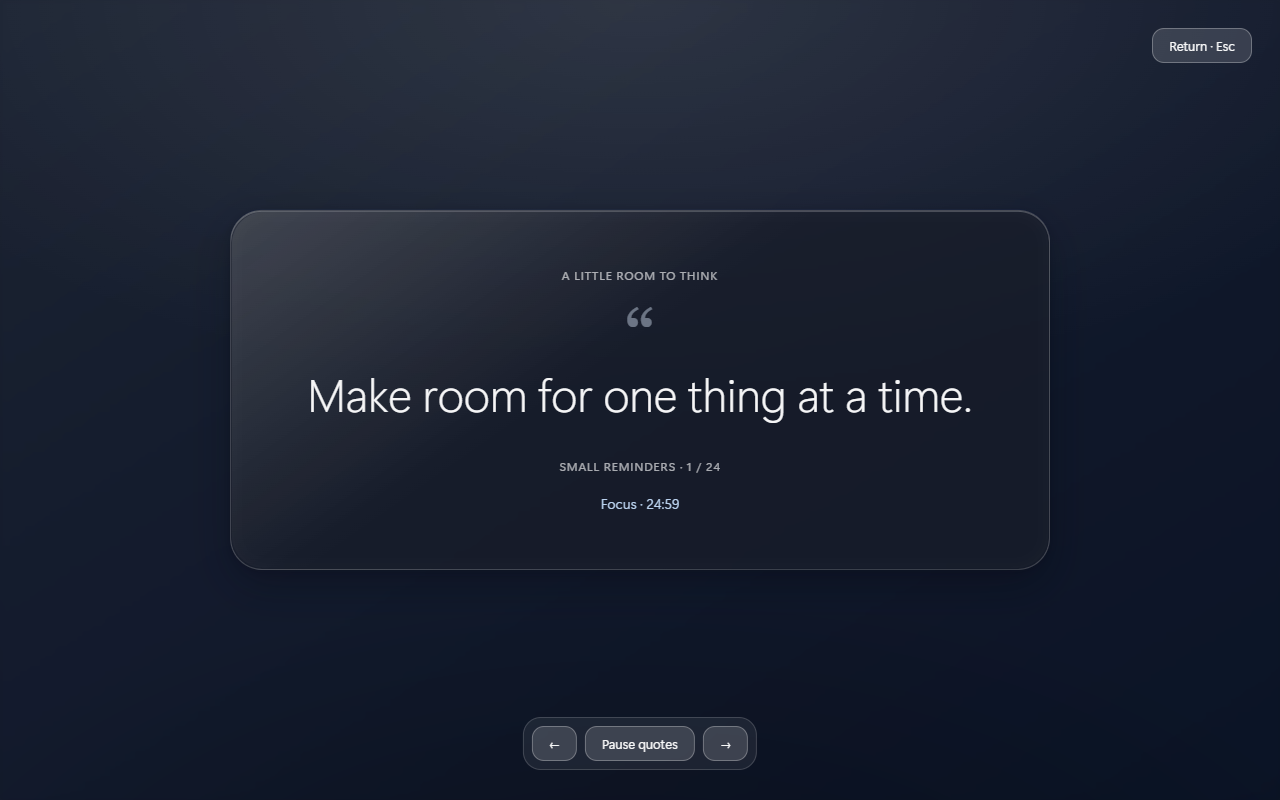
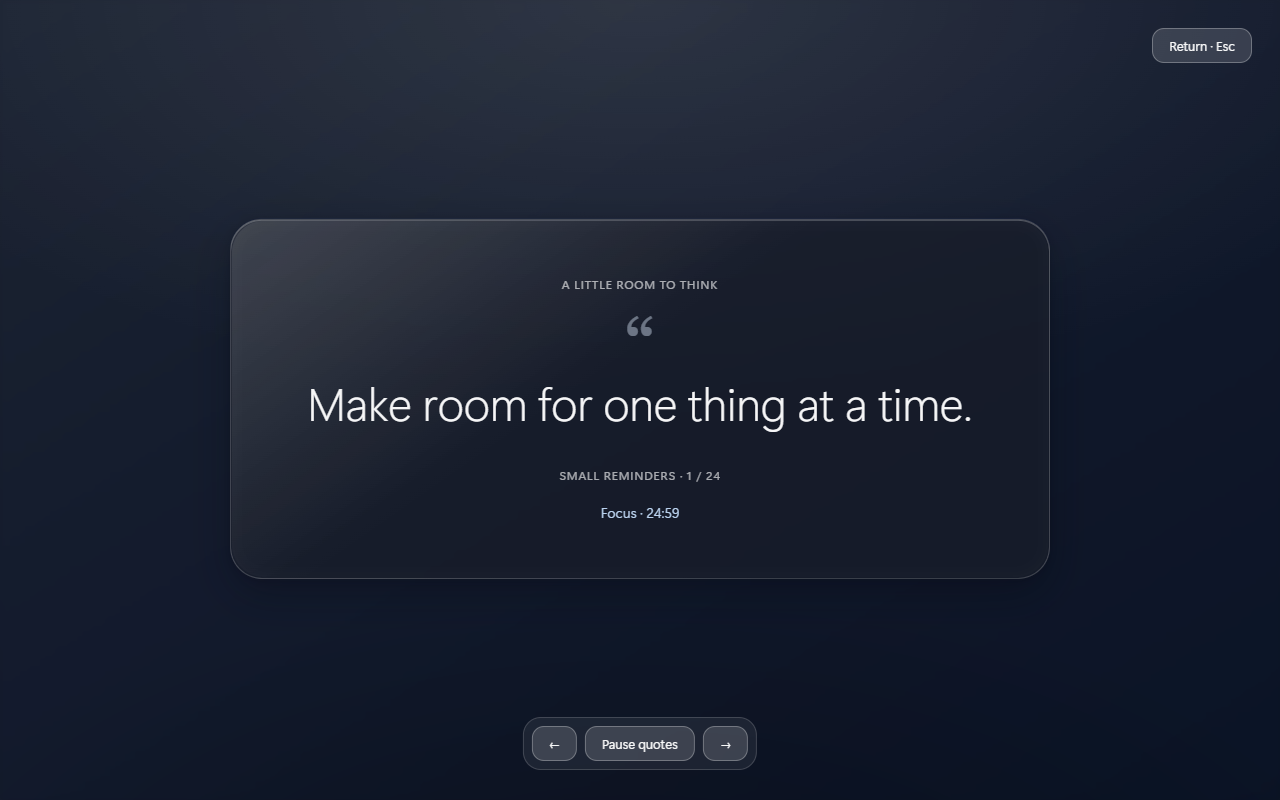
fix: make home swipes easier and keep gesture glass stationary

diff --git a/src/pages.ts b/src/pages.ts
@@ -14,6 +14,7 @@ let current = "desktop";
 let homeScreen = 0;
 let apps: AppEntry[] = [];
 let appsReady = false;
+let appListRendered = false;
 let query = "";
 let usageTimer: number | undefined;
 let gestureSurface: HTMLElement | null = null;
@@ -66,6 +67,7 @@ function renderList() {
   const empty = appsReady ? (query ? `Nothing matches “${query}”` : "No applications found") : "Loading installed applications…";
   byId("app-list").replaceChildren(...(matches.length ? matches.map((item) => appButton(item)) : [el("p", "page-empty", [empty])]));
   byId("app-list-count").textContent = appsReady ? `${matches.length} apps` : "Loading";
+  appListRendered = true;
 }
 
 function renderWorkspace() {
@@ -104,9 +106,10 @@ export function show(id: string) {
   itemPicker.close();
   const surface = current === "desktop" && homeScreen > 0 ? "workspace-surface" : next.surface;
   for (const id of ["apps-surface", "workspace-surface", "app-list-surface", "screen-time-surface", "focus-surface", "settings-surface"]) byId(id).hidden = surface !== id;
-  renderNav(); renderWorkspace();
-  if (current === "desktop") grid.setQuery(query);
-  if (current === "all-apps") renderList();
+  renderNav();
+  if (current === "desktop" && homeScreen > 0) renderWorkspace();
+  if (current === "desktop" && homeScreen === 0) grid.setQuery(query);
+  if (current === "all-apps" && !appListRendered) renderList();
   if (current === "screen-time") { renderUsage(); void refreshUsage(); }
   if (current === "focus") refreshFocus();
   if (current === "settings") refreshPanel();
@@ -141,10 +144,12 @@ function gestureDestination(direction: number, mode: "pinch" | "swipe"): string 
 }
 export function previewGesture(direction: number, progress: number, mode: "pinch" | "swipe") {
   if (!direction) return;
-  gestureSurface ??= document.querySelector<HTMLElement>(".page-surface:not([hidden])");
+  const homeContent = isHome();
+  if (gestureSurface && gestureMode !== mode) clearGesturePreview();
+  gestureSurface ??= document.querySelector<HTMLElement>(homeContent ? ".page-surface:not([hidden]) > .home-motion" : ".page-surface:not([hidden])");
   if (!gestureSurface) return;
   gestureSurface.dataset.gesturePreview = "true";
-  gestureSurface.style.setProperty("--gesture-shift", `${-direction * progress * 84}px`);
+  gestureSurface.style.setProperty("--gesture-shift", `${-direction * progress * 68}px`);
   const scale = mode === "swipe" ? 1 : 1 + progress * (direction < 0 ? -.055 : .025);
   gestureSurface.style.setProperty("--gesture-scale", String(scale));
   const cue = byId("gesture-cue");
@@ -169,20 +174,26 @@ export function clearGesturePreview() {
 }
 export function completeGesture(direction: number, mode: "pinch" | "swipe") {
   if (!direction) return;
-  const navigate = () => { if (isHome() && mode === "swipe") cycleHome(direction); else cycle(direction); };
+  if (mode === "swipe" && !isHome()) { clearGesturePreview(); return; }
+  const homeSwipe = isHome() && mode === "swipe";
+  const navigate = () => { if (homeSwipe) cycleHome(direction); else cycle(direction); };
   if (document.body.dataset.anim === "false" || matchMedia("(prefers-reduced-motion: reduce)").matches || !document.startViewTransition) {
     navigate();
     return;
   }
   document.documentElement.dataset.gestureDirection = direction > 0 ? "next" : "previous";
   document.body.classList.add("gesture-transitioning");
+  document.body.classList.toggle("home-gesture-transitioning", homeSwipe);
   const transition = document.startViewTransition(navigate);
-  const finish = () => { delete document.documentElement.dataset.gestureDirection; document.body.classList.remove("gesture-transitioning"); };
+  const finish = () => {
+    delete document.documentElement.dataset.gestureDirection;
+    document.body.classList.remove("gesture-transitioning", "home-gesture-transitioning");
+  };
   void transition.finished.then(finish, finish);
 }
 export function toggleBar() { updateSettings({ compactBar: !settings().compactBar }); }
-export function setApps(next: AppEntry[]) { apps = [...next]; appsReady = true; itemPicker.setApps(next); if (current === "all-apps") renderList(); }
-export function setQuery(next: string) { query = next; if (current === "desktop" && homeScreen === 0) grid.setQuery(next); if (current === "all-apps") renderList(); renderWorkspace(); setUsageQuery(next); }
+export function setApps(next: AppEntry[]) { apps = [...next]; appsReady = true; appListRendered = false; itemPicker.setApps(next); if (current === "all-apps") renderList(); }
+export function setQuery(next: string) { if (query !== next) appListRendered = false; query = next; if (current === "desktop" && homeScreen === 0) grid.setQuery(next); if (current === "all-apps") renderList(); if (current === "desktop" && homeScreen > 0) renderWorkspace(); setUsageQuery(next); }
 export function reset() { query = ""; homeScreen = 0; show("desktop"); }
 export function activateFirst(): boolean {
   if (current === "desktop" && homeScreen === 0) return false;

diff --git a/src/gestures.ts b/src/gestures.ts
@@ -1,9 +1,11 @@
 type Point = { x: number; y: number };
+const trackpadSwipeThresholdPx = 42;
+const touchSwipeThresholdPx = 55;
 type GestureHandlers = {
   navigate: (direction: number, mode: "pinch" | "swipe") => void;
   preview: (direction: number, progress: number, mode: "pinch" | "swipe") => void;
   cancel: () => void;
-  canNavigate: (target: EventTarget | null) => boolean;
+  canNavigate: (target: EventTarget | null, mode?: "pinch" | "swipe") => boolean;
 };
 
 /** One controller owns the gesture burst, its live preview, and its cancellation. */
@@ -46,7 +48,7 @@ export class PageGestureController {
   private paintPreview(now: number) {
     const elapsed = Math.min(64, now - (this.previewLastAt || now));
     this.previewLastAt = now;
-    this.previewShown += (this.previewTarget - this.previewShown) * (1 - Math.exp(-elapsed / 24));
+    this.previewShown += (this.previewTarget - this.previewShown) * (1 - Math.exp(-elapsed / 12));
     if (Math.abs(this.previewTarget - this.previewShown) < .006) this.previewShown = this.previewTarget;
     this.handlers.preview(Math.sign(this.previewShown), Math.abs(this.previewShown), this.previewMode);
     this.previewFrame = this.previewShown === this.previewTarget ? undefined : requestAnimationFrame(time => this.paintPreview(time));
@@ -78,12 +80,12 @@ export class PageGestureController {
     const pinch = event.ctrlKey && !event.altKey && !event.metaKey && event.deltaY !== 0;
     // Wry must allow WebView2 pinch input; cancel its page zoom even outside navigable canvas regions.
     if (pinch) event.preventDefault();
-    if (!this.handlers.canNavigate(event.target)) return;
     const swipe = !event.ctrlKey && Math.abs(event.deltaX) > Math.abs(event.deltaY) * 1.2;
     if (!pinch && !swipe) return;
+    const mode = pinch ? "pinch" : "swipe";
+    if (!this.handlers.canNavigate(event.target, mode)) return;
     event.preventDefault();
 
-    const mode = pinch ? "pinch" : "swipe";
     const now = performance.now();
     if (mode !== this.wheelMode || now - this.wheelLastAt > 350) this.resetWheel();
     this.wheelMode = mode;
@@ -95,7 +97,7 @@ export class PageGestureController {
     const delta = (pinch ? -event.deltaY : event.deltaX) * (event.deltaMode === 1 ? 16 : 1);
     if (this.wheelAmount && Math.sign(this.wheelAmount) !== Math.sign(delta)) this.wheelAmount = 0;
     this.wheelAmount += delta;
-    const progress = Math.min(1, Math.abs(this.wheelAmount) / (pinch ? 56 : 90));
+    const progress = Math.min(1, Math.abs(this.wheelAmount) / (pinch ? 56 : trackpadSwipeThresholdPx));
     const direction = Math.sign(this.wheelAmount);
     this.queuePreview(direction, progress, mode);
     if (progress < 1) return;
@@ -128,11 +130,12 @@ export class PageGestureController {
     const driftX = current.x - this.touchStart.x;
     const driftY = current.y - this.touchStart.y;
     const pinchStrength = Math.abs(ratio - 1) / 0.25;
-    const swipeStrength = Math.abs(driftX) / 90;
+    const swipeStrength = Math.abs(driftX) / touchSwipeThresholdPx;
     const xMoves = [...this.touches].map(([id, point]) => point.x - this.touchOrigins.get(id)!.x);
     const swipe = Math.sign(xMoves[0]) === Math.sign(xMoves[1]) && Math.abs(driftX) > 8 && Math.abs(driftX) > Math.abs(driftY) * 1.4;
     const pinch = !swipe && Math.abs(ratio - 1) > 0.04;
     if (!pinch && !swipe) return;
+    if (!this.handlers.canNavigate(event.target, pinch ? "pinch" : "swipe")) return;
 
     const direction = pinch ? Math.sign(ratio - 1) : -Math.sign(driftX);
     const progress = Math.min(1, pinch ? pinchStrength : swipeStrength);

diff --git a/src/launcher.css b/src/launcher.css
@@ -68,12 +68,14 @@ body.ambient-open #shell { visibility: hidden; }
 body[data-anim="false"] #ambient[data-mode="saver"] #ambient-content::after { animation: none; }
 @media (prefers-reduced-motion: reduce) { #ambient[data-mode="saver"] #ambient-content::after { animation: none; } }
 .page-surface:not([hidden]) { view-transition-name: launcher-page; }
-.page-surface[data-gesture-preview="true"] { transform: translateX(var(--gesture-shift)) scale(var(--gesture-scale)); transition: none !important; will-change: transform; }
+body.home-gesture-transitioning .page-surface:not([hidden]) { view-transition-name: none; }
+body.home-gesture-transitioning .page-surface:not([hidden]) > .home-motion { view-transition-name: launcher-page; }
+.page-surface[data-gesture-preview="true"], .home-motion[data-gesture-preview="true"] { transform: translateX(var(--gesture-shift)) scale(var(--gesture-scale)); transition: none !important; will-change: transform; }
 html { view-transition-name: none; }
-html[data-gesture-direction="next"]::view-transition-old(launcher-page) { animation: page-out-next 100ms cubic-bezier(.55,0,1,.45) both; }
-html[data-gesture-direction="next"]::view-transition-new(launcher-page) { animation: page-in-next 280ms cubic-bezier(.16,1,.3,1) both; }
-html[data-gesture-direction="previous"]::view-transition-old(launcher-page) { animation: page-out-previous 100ms cubic-bezier(.55,0,1,.45) both; }
-html[data-gesture-direction="previous"]::view-transition-new(launcher-page) { animation: page-in-previous 280ms cubic-bezier(.16,1,.3,1) both; }
+html[data-gesture-direction="next"]::view-transition-old(launcher-page) { animation: page-out-next 85ms cubic-bezier(.55,0,1,.45) both; }
+html[data-gesture-direction="next"]::view-transition-new(launcher-page) { animation: page-in-next 220ms cubic-bezier(.16,1,.3,1) both; }
+html[data-gesture-direction="previous"]::view-transition-old(launcher-page) { animation: page-out-previous 85ms cubic-bezier(.55,0,1,.45) both; }
+html[data-gesture-direction="previous"]::view-transition-new(launcher-page) { animation: page-in-previous 220ms cubic-bezier(.16,1,.3,1) both; }
 @keyframes page-out-next { to { transform: translateX(-110px) scale(.985); opacity: 0; } }
 @keyframes page-in-next { from { transform: translateX(110px) scale(.985); opacity: 0; } }
 @keyframes page-out-previous { to { transform: translateX(110px) scale(.985); opacity: 0; } }
@@ -234,12 +236,15 @@ body[data-canvas="clear"] #tint {
 #apps-surface {
   --r: calc(var(--radius) + 8px);
   display: grid;
-  grid-template-rows: minmax(0, 1fr) auto;
+  grid-template-rows: minmax(0, 1fr);
   min-height: 0;
   margin: 20px 0 58px;
   padding: 12px 14px 10px;
   overflow: hidden;
 }
+.home-motion { min-width: 0; min-height: 0; }
+.home-motion-desktop { display: grid; grid-template-rows: minmax(0, 1fr) auto; height: 100%; }
+.home-motion-workspace { display: flex; flex: 1; flex-direction: column; gap: 18px; }
 
 body[data-rail="true"] #shell {
   padding-bottom: 64px;

diff --git a/index.html b/index.html
@@ -40,8 +40,10 @@
         </header>
 
         <main id="apps-surface" class="glass page-surface" aria-label="Desktop apps and groups">
-          <div id="grid-layer"><div id="grid"></div></div>
-          <footer class="home-footer"><span id="status"></span><nav id="home-pages" class="home-pages" aria-label="Home screens"></nav></footer>
+          <div class="home-motion home-motion-desktop">
+            <div id="grid-layer"><div id="grid"></div></div>
+            <footer class="home-footer"><span id="status"></span><nav id="home-pages" class="home-pages" aria-label="Home screens"></nav></footer>
+          </div>
         </main>
 
         <main id="app-list-surface" class="glass page-surface secondary-surface" aria-label="All apps" hidden>
@@ -53,9 +55,11 @@
         </main>
 
         <main id="workspace-surface" class="glass page-surface secondary-surface" aria-label="Workspace" hidden>
-          <header class="page-heading"><h1 id="workspace-title">Screen 2</h1><button id="workspace-add-trigger" type="button" class="chip">+ Add app or folder</button></header>
-          <div id="workspace-items" class="app-list"></div>
-          <nav id="workspace-pages" class="home-pages" aria-label="Home screens"></nav>
+          <div class="home-motion home-motion-workspace">
+            <header class="page-heading"><h1 id="workspace-title">Screen 2</h1><button id="workspace-add-trigger" type="button" class="chip">+ Add app or folder</button></header>
+            <div id="workspace-items" class="app-list"></div>
+            <nav id="workspace-pages" class="home-pages" aria-label="Home screens"></nav>
+          </div>
         </main>
 
         <section id="item-picker" class="glass" aria-label="Add to screen" hidden><header class="picker-heading"><h2 id="picker-title">Add to screen</h2><button id="picker-close" type="button" class="chip">Close</button></header><div class="workspace-picker"><label for="workspace-app-search">Find a Windows app</label><input id="workspace-app-search" type="search" placeholder="Search installed apps…" autocomplete="off"/><div id="workspace-app-results" class="workspace-app-results" aria-label="Matching installed apps"></div><div class="workspace-picker-actions"><button type="button" id="workspace-browse-folder" class="chip">Choose folder…</button><button type="button" id="workspace-browse-file" class="chip">Choose file…</button></div><details class="workspace-path-fallback"><summary>Enter a path instead</summary><form id="workspace-path-form" class="workspace-editor"><input id="workspace-path" class="workspace-name" type="text" placeholder="Full folder or file path" aria-label="Full folder or file path" required /><button type="submit" class="chip">Add path</button></form></details><p id="workspace-path-note" class="note" role="status"></p></div></section>

diff --git a/src/launcher.ts b/src/launcher.ts
@@ -288,8 +288,9 @@ function setupInput() {
     navigate: pages.completeGesture,
     preview: pages.previewGesture,
     cancel: pages.clearGesturePreview,
-    canNavigate: (target) => {
+    canNavigate: (target, mode) => {
       if (document.body.classList.contains("gesture-transitioning") || isMenuOpen() || grid.isPopupOpen() || !byId("item-picker").hidden) return false;
+      if (mode === "swipe" && !pages.isHome()) return false;
       if (!(target instanceof HTMLElement)) return false;
       return !target.closest("input, textarea, #rail, #preview, #ambient, #popup, #menu");
     },

diff --git a/docs/SESSION_WORKORDER.md b/docs/SESSION_WORKORDER.md
@@ -39,7 +39,7 @@ This is the complete intake from the owner's messages in this chat. It extends t
 | W-33 | Hover to peek inside groups and folders after 500 ms | Show a small acrylic icon grid (up to 2×3) using real group members or a bounded read-only folder listing. Dismiss on leave, click and drag; keyboard focus shows it immediately. | `[~]` |
 | W-34 | Taskbar scrollbar appears on hover | Hide the taskbar scrollbar while retaining horizontal scrolling for overflow; keep magnification bounded so icons do not force a visible bar. | `[~]` |
 | W-35 | Consistent taskbar and search height | Make both surfaces 52 CSS px high, align header text and use the same acrylic material. Check narrow viewport geometry and real Windows scaling. | `[~]` |
-| W-36 | Trackpad and touch gestures between pages | Owner reported that v0.2.0 pinch did not work and both gestures felt choppy in the first 0.2.1 preview. Physical pinch now reaches Opaline after enabling WebView2 input. Pinch-in/out selects previous/next Alt+1–5 page; horizontal swipes move through Home screens with wraparound. Live movement uses animation frames and a shared eased transition; early release returns to rest. Browser routing checks pass; owner smoothness and direction retest remains open. | `[~]` |
+| W-36 | Trackpad and touch gestures between pages | Owner reported that v0.2.0 pinch did not work and gestures felt choppy in the first 0.2.1 previews. Physical pinch now reaches Opaline after enabling WebView2 input. Pinch-in/out selects previous/next Alt+1–5 page; horizontal swipes move only through Home screens with wraparound. Home glass stays stationary while its content moves; a 42 px trackpad threshold and 55 px touch threshold aim to catch shorter swipes. Browser checks pass; owner sensitivity/smoothness retest remains open. | `[~]` |
 | W-37 | Six header icons without clutter | Superseded by W-42. The Home and Dev tools buttons move out of the header; the four remaining icons keep their matching capsules. | `[~]` |
 | W-38 | Header icon backgrounds too dark | Raise the capsule's acrylic highlight and border while retaining the saved theme material and transparent icon buttons. Compare with search, taskbar and custom/light styles on the owner's display. | `[~]` |
 | W-39 | Easier custom folders and apps | Add a prominent Add items action, search the actual Windows AppsFolder catalogue, and use the native Windows folder/file picker. Keep full path entry as an advanced fallback. Test pin, duplicate prevention, cancel, save and restart. | `[~]` |

diff --git a/WORKORDER.md b/WORKORDER.md
@@ -123,7 +123,7 @@ Desktop icons stay hidden in Explorer. The files stay in the Desktop folder. **O
 | R-42 | Taskbar icons remain sharp; Opaline does not add its own dock button | P0 | `[~]` | Larger window icon and lower hover scale; real taskbar comparison pending; W-30/W-31 |
 | R-43 | Four header icons, Home-only side arrows and icon-grid hover peeks | P0 | `[~]` | Browser interaction/layout checks; Windows pointer pass pending; W-32/W-33/W-37 |
 | R-44 | Taskbar scrollbar hidden and taskbar/search heights match | P0 | `[~]` | Computed-style and rendered viewport check; native scaling pass pending; W-34/W-35 |
-| R-45 | Swipe/pinch page navigation for trackpads and touch | P1 | `[~]` | Owner confirmed physical pinch works after WebView2 input was enabled. Pinch selects Alt+1–5 pages; Home swipe selects Home screens. Browser checks cover routing, directions, quick repeats, wraparound and cancellation; owner smoothness and direction retest pending; W-36/W-50 |
+| R-45 | Swipe/pinch page navigation for trackpads and touch | P1 | `[~]` | Owner confirmed physical pinch works after WebView2 input was enabled. Pinch selects Alt+1–5 pages; swipe selects Home screens only. Home glass stays still while content moves; shorter swipes now register in browser checks, alongside wraparound, cancellation and static glass. Owner sensitivity/smoothness retest pending; W-36/W-50 |
 | R-49 | Shared ambient material and more active saver | P1 | `[~]` | Demo Zen/saver screenshots show the shared backdrop and acrylic; rotating prompt and motion code checked in browser. Real idle/wake and owner visual pass pending; W-48 |
 | R-46 | Brighter theme-matched header capsules | P0 | `[~]` | Browser visual pass; owner theme/scaling pass pending; W-38 |
 | R-47 | Add workspace items through Windows app search and native pickers | P0 | `[~]` | Browser app search/save check and native compile; owner picker pass pending; W-39 |

diff --git a/README.md b/README.md
@@ -148,7 +148,7 @@ The release process and artifact list are documented in [docs/RELEASING.md](docs
 | <kbd>Ctrl</kbd>+<kbd>Alt</kbd>+<kbd>A</kbd> / <kbd>T</kbd> / <kbd>F</kbd> | All apps / Screen time / Focus |
 | <kbd>Ctrl</kbd>+<kbd>B</kbd> | Collapse / expand navigation |
 
-Use the side arrows or Tab on Home to move between the Desktop and custom screens. Pinch inward to go to the previous screen; spread outward to go to the next. Horizontal swipes follow the same Home screens and cycle main pages elsewhere. Ctrl+Tab always cycles main pages. The header puts **All apps** and **Screen time** left of search, with **Focus** and **Settings** on the right. **Home** sits beside the bottom taskbar, which shows only pinned and running apps. Hover a pane or folder for half a second to peek at its icon grid. The Windows AppsFolder catalogue begins loading in the background after startup; the first visible frame does not wait for it.
+Use the side arrows, Tab or a two-finger horizontal swipe on Home to move between the Desktop and custom screens. Home swipes wrap in both directions and have no page-navigation action outside Home. Pinch inward to go to the previous Alt+1–5 screen; spread outward to go to the next. Ctrl+Tab also cycles the five main screens. The header puts **All apps** and **Screen time** left of search, with **Focus** and **Settings** on the right. **Home** sits beside the bottom taskbar, which shows only pinned and running apps. Hover a pane or folder for half a second to peek at its icon grid. The Windows AppsFolder catalogue begins loading in the background after startup; the first visible frame does not wait for it.
 
 ## Works well with
 

diff --git a/DEVLOG.md b/DEVLOG.md
@@ -8,6 +8,8 @@ The owner confirmed that physical two-finger swipe worked while pinch initially 
 
 The owner clarified the gesture destinations: pinching cycles the same five main pages as Alt+1–5, even while Home is open. Horizontal swipes cycle Home screens while on Home. Returning to Home through top-level navigation selects the Desktop screen. Browser routing checks cover both directions and the two wrap points; owner direction and smoothness acceptance remains open.
 
+The owner then reported that gestures still felt laggy next to the group popup. The preview had been transforming the large backdrop-blurred Home glass surface on every input frame. Home now keeps that surface stationary during both swipe and pinch previews and moves only a content wrapper. A later owner check found that shorter swipes sometimes failed to register, so the swipe threshold is now 42 px for trackpad wheel input and 55 px for touch. Live motion responds within a short animation frame, and the content transition finishes in 220 ms. Re-entering All apps reuses its rendered list until the apps or query change. Browser checks assert that Home glass does not transform during a partial gesture and short swipes navigate; real touchpad smoothness remains for the owner to judge.
+
 Opening Opaline and changing pages previously forced focus onto search. The neutral launcher shell now takes focus, and S focuses search without entering a query character. Arrow navigation no longer unexpectedly jumps from the first tile back into search.
 
 ## 2026-10-28 · 0.2.1 gesture correction preview

diff --git a/CHANGELOG.md b/CHANGELOG.md
@@ -10,9 +10,10 @@ and the project uses [Semantic Versioning](https://semver.org). Each minor relea
 
 ### Fixed
 - Enabled WebView2 pinch input; the owner confirmed physical pinch reaches Opaline in the preview. Pinch-in/out moves backward/forward through the Alt+1–5 pages.
-- Two-finger horizontal swipes follow Home screens and wrap in both directions. Outside Home, swipes move between the main pages.
+- Two-finger horizontal swipes follow Home screens and wrap in both directions. Outside Home, swipes leave the current main page unchanged.
 - Swipe and pinch now move the visible page during the gesture and slide the destination into place at the threshold; a short gesture eases back.
 - Smoothed gesture input frames and replaced the abrupt page handoff with one eased transition between the outgoing and incoming pages.
+- Home gestures now move page content over stationary acrylic; shorter swipes register and complete more quickly.
 - Search no longer takes focus when Opaline opens or changes pages. Press S to focus it; Home swipes wrap in both directions.
 - Zen and screen saver reuse the saved launcher backdrop and acrylic material. The saver rotates gentle break prompts.
 
